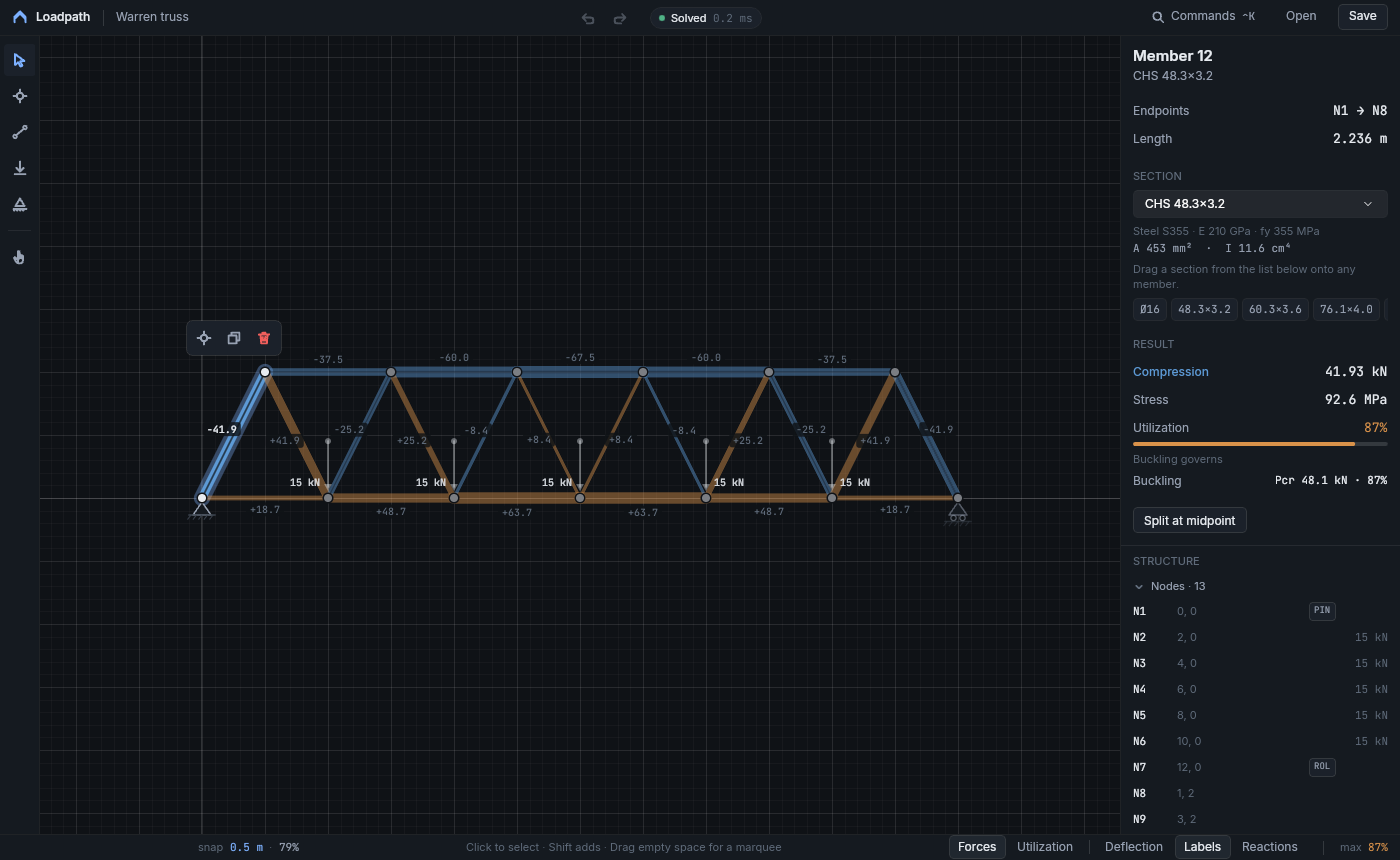
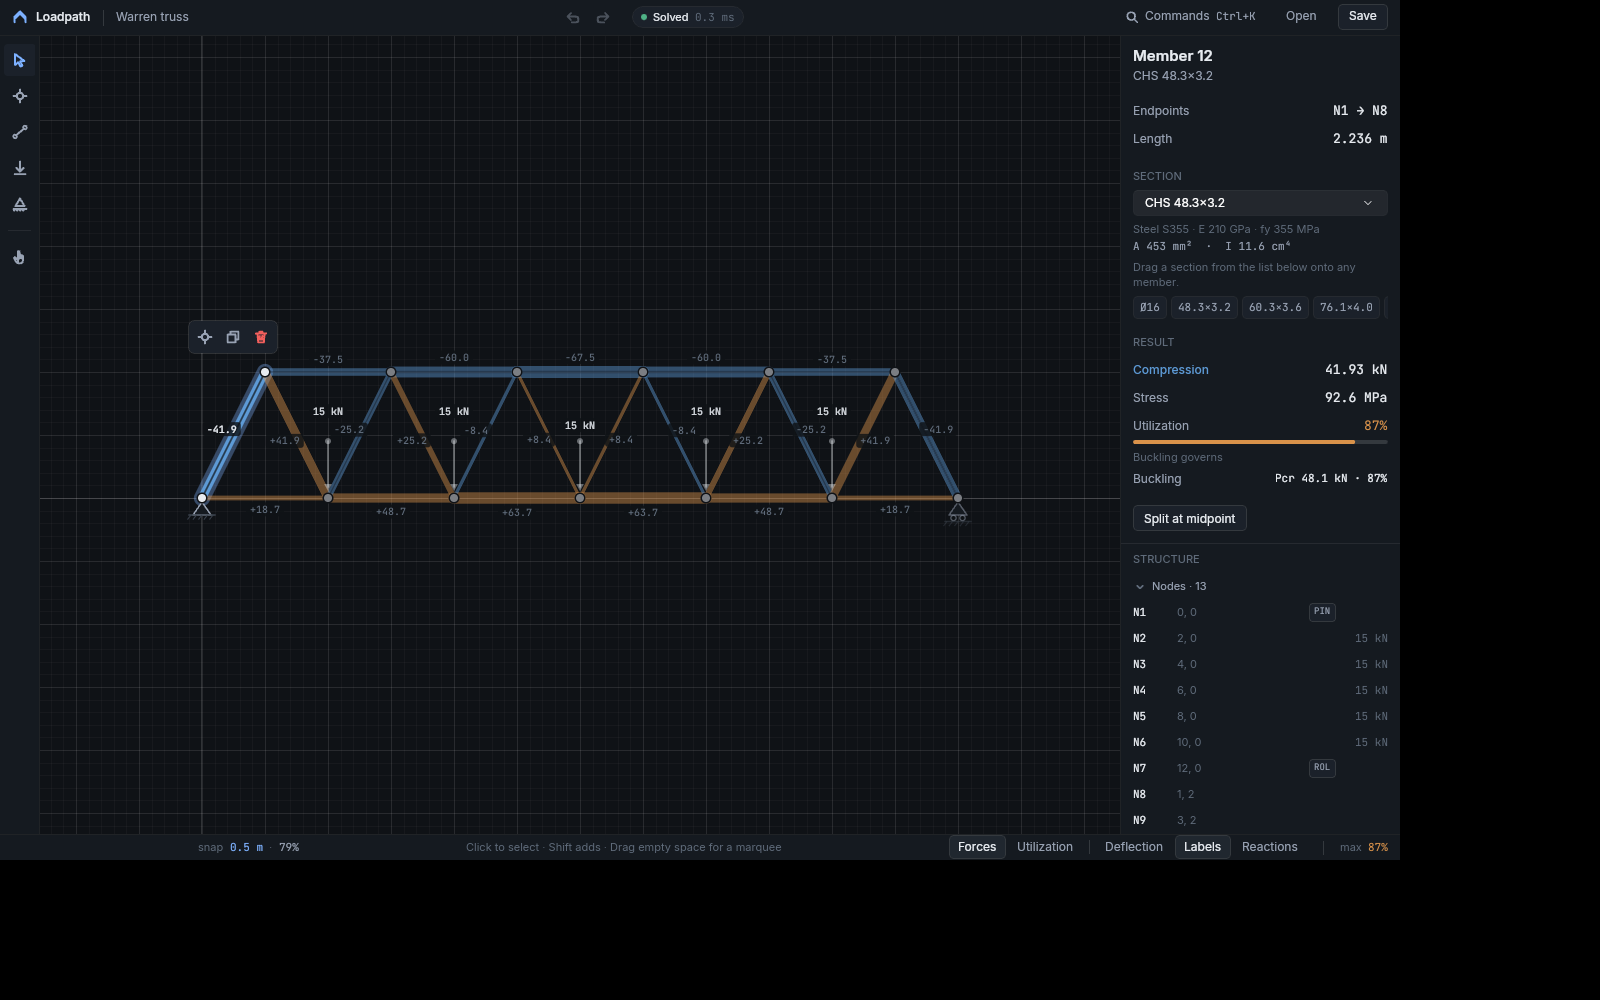
fix(loadpath): UI craft pass on canvas labels, control heights and status bar
Load and reaction labels pick the first of four spots around the arrow tail
that misses the member labels already drawn this frame, with the same backing
pill as member labels; before, they crossed diagonals or diagonal force labels
depending on zoom. Control heights go from five values to three (icon buttons,
palette rows, section combo and outline headers all 26 px). The Commands
button shows Ctrl+K instead of the macOS glyph. The deflection slider has a
×n.n readout. Below 960 px the status bar hides the cursor readout so the
display toggles and max utilization are never clipped. README screenshots
regenerated.

Claude-Session: https://claude.ai/code/session_01R4LfDdvnfWaRkRhFJQmQpw

diff --git a/Loadpath/Views/StatusBar.xaml b/Loadpath/Views/StatusBar.xaml
@@ -6,7 +6,7 @@
   <Border Background="{StaticResource SurfaceBrush}" BorderBrush="{StaticResource HairlineBrush}" BorderThickness="0,1,0,0" Padding="12,0">
     <Grid ColumnSpacing="16">
       <Grid.ColumnDefinitions>
-        <ColumnDefinition Width="170" />
+        <ColumnDefinition x:Name="CursorColumn" Width="170" />
         <ColumnDefinition Width="Auto" />
         <ColumnDefinition Width="*" />
         <ColumnDefinition Width="Auto" />
@@ -14,9 +14,9 @@
         <ColumnDefinition Width="Auto" />
       </Grid.ColumnDefinitions>
 
-      <TextBlock Text="{Binding CursorText}" Style="{StaticResource MonoCaption}" VerticalAlignment="Center" />
+      <TextBlock x:Name="Cursor" Text="{Binding CursorText}" Style="{StaticResource MonoCaption}" VerticalAlignment="Center" />
 
-      <StackPanel Grid.Column="1" Orientation="Horizontal" Spacing="6" VerticalAlignment="Center">
+      <StackPanel x:Name="SnapZoom" Grid.Column="1" Orientation="Horizontal" Spacing="6" VerticalAlignment="Center">
         <TextBlock Text="snap" Style="{StaticResource CaptionText}" VerticalAlignment="Center" />
         <TextBlock Text="{Binding SnapText}" Style="{StaticResource MonoCaption}" Foreground="{StaticResource AccentBrush}" VerticalAlignment="Center"
                    Opacity="{Binding SnapEnabled, Converter={StaticResource Dim}, ConverterParameter=invert}" />
@@ -33,6 +33,8 @@
         <ToggleButton Style="{StaticResource SegmentToggle}" Content="Deflection" IsChecked="{Binding ShowDeflection, Mode=TwoWay, Converter={StaticResource Checked}}" ToolTipService.ToolTip="Show deflected shape   3" />
         <Slider Style="{StaticResource CompactSlider}" Width="64" Minimum="0.2" Maximum="3" StepFrequency="0.1" Value="{Binding Exaggeration, Mode=TwoWay}"
                 Visibility="{Binding ShowDeflection, Converter={StaticResource Vis}}" ToolTipService.ToolTip="Deflection exaggeration" VerticalAlignment="Center" />
+        <TextBlock Text="{Binding ExaggerationText}" Style="{StaticResource MonoCaption}" MinWidth="30" Margin="2,0,4,0" VerticalAlignment="Center"
+                   Visibility="{Binding ShowDeflection, Converter={StaticResource Vis}}" />
         <ToggleButton Style="{StaticResource SegmentToggle}" Content="Labels" IsChecked="{Binding ShowLabels, Mode=TwoWay, Converter={StaticResource Checked}}" ToolTipService.ToolTip="Show force labels   4" />
         <ToggleButton Style="{StaticResource SegmentToggle}" Content="Reactions" IsChecked="{Binding ShowReactions, Mode=TwoWay, Converter={StaticResource Checked}}" ToolTipService.ToolTip="Show support reactions   5" />
       </StackPanel>

diff --git a/Loadpath/Views/OutlinePanel.xaml b/Loadpath/Views/OutlinePanel.xaml
@@ -35,7 +35,7 @@
     <ScrollViewer Grid.Row="1" VerticalScrollBarVisibility="Auto" HorizontalScrollMode="Disabled">
       <StackPanel Padding="0,0,0,12">
         <TextBlock Text="No elements yet" Style="{StaticResource CaptionText}" Margin="12,4" Visibility="{Binding OutlineIsEmpty, Converter={StaticResource Vis}}" />
-        <Button Style="{StaticResource QuietButton}" Command="{Binding ToggleNodes}" HorizontalAlignment="Stretch" HorizontalContentAlignment="Left" Padding="12,0" Height="24"
+        <Button Style="{StaticResource QuietButton}" Command="{Binding ToggleNodes}" HorizontalAlignment="Stretch" HorizontalContentAlignment="Left" Padding="12,0" Height="26"
                 Visibility="{Binding OutlineIsEmpty, Converter={StaticResource Vis}, ConverterParameter=invert}">
           <StackPanel Orientation="Horizontal" Spacing="6">
             <c:Icon Kind="chevron-down" Width="12" Height="12" Foreground="{StaticResource InkTertiaryBrush}" Visibility="{Binding NodesExpanded, Converter={StaticResource Vis}}" />
@@ -44,7 +44,7 @@
           </StackPanel>
         </Button>
         <ItemsControl ItemsSource="{Binding OutlineNodes}" ItemTemplate="{StaticResource OutlineRow}" Visibility="{Binding NodesExpanded, Converter={StaticResource Vis}}" />
-        <Button Style="{StaticResource QuietButton}" Command="{Binding ToggleMembers}" HorizontalAlignment="Stretch" HorizontalContentAlignment="Left" Padding="12,0" Height="24"
+        <Button Style="{StaticResource QuietButton}" Command="{Binding ToggleMembers}" HorizontalAlignment="Stretch" HorizontalContentAlignment="Left" Padding="12,0" Height="26"
                 Visibility="{Binding OutlineIsEmpty, Converter={StaticResource Vis}, ConverterParameter=invert}">
           <StackPanel Orientation="Horizontal" Spacing="6">
             <c:Icon Kind="chevron-down" Width="12" Height="12" Foreground="{StaticResource InkTertiaryBrush}" Visibility="{Binding MembersExpanded, Converter={StaticResource Vis}}" />

diff --git a/Loadpath/Views/CommandPalette.xaml b/Loadpath/Views/CommandPalette.xaml
@@ -25,7 +25,7 @@
           <ItemsControl ItemsSource="{Binding PaletteItems}" Padding="4">
             <ItemsControl.ItemTemplate>
               <DataTemplate>
-                <Border Height="28" Padding="8,0" CornerRadius="4" Background="{Binding RowBrushKey, Converter={StaticResource Brush}}" Tag="{Binding Id}" PointerPressed="OnItemPressed" PointerEntered="OnItemEntered">
+                <Border Height="26" Padding="8,0" CornerRadius="4" Background="{Binding RowBrushKey, Converter={StaticResource Brush}}" Tag="{Binding Id}" PointerPressed="OnItemPressed" PointerEntered="OnItemEntered">
                   <Grid ColumnSpacing="10">
                     <Grid.ColumnDefinitions>
                       <ColumnDefinition Width="16" />

diff --git a/Loadpath/Views/InspectorPanel.xaml b/Loadpath/Views/InspectorPanel.xaml
@@ -126,7 +126,7 @@
 
       <TextBlock Text="SECTION" Style="{StaticResource SectionLabel}" Margin="0,16,0,6" />
       <ComboBox ItemsSource="{Binding Sections}" SelectedIndex="{Binding SectionIndex, Mode=TwoWay}"
-                HorizontalAlignment="Stretch" MinHeight="26" Height="28" FontFamily="{StaticResource UiFont}" FontSize="12" AutomationProperties.Name="Section">
+                HorizontalAlignment="Stretch" MinHeight="26" Height="26" FontFamily="{StaticResource UiFont}" FontSize="12" AutomationProperties.Name="Section">
         <ComboBox.ItemTemplate>
           <DataTemplate>
             <TextBlock Text="{Binding Name}" FontFamily="{StaticResource UiFont}" FontSize="12" />

diff --git a/Loadpath/Views/TitleStrip.xaml b/Loadpath/Views/TitleStrip.xaml
@@ -48,7 +48,7 @@
         <StackPanel Orientation="Horizontal" Spacing="6">
           <c:Icon Kind="search" Width="14" Height="14" />
           <TextBlock Text="Commands" Style="{StaticResource SecondaryText}" VerticalAlignment="Center" />
-          <TextBlock Text="⌃K" Style="{StaticResource MonoCaption}" VerticalAlignment="Center" />
+          <TextBlock Text="Ctrl+K" Style="{StaticResource MonoCaption}" VerticalAlignment="Center" />
         </StackPanel>
       </Button>
       <Button Grid.Column="5" Style="{StaticResource QuietButton}" Command="{Binding OpenFile}" ToolTipService.ToolTip="Open   Ctrl+O" AutomationProperties.Name="Open">

diff --git a/Loadpath/Themes/Controls.xaml b/Loadpath/Themes/Controls.xaml
@@ -147,9 +147,9 @@
   </Style>
 
   <Style x:Key="IconButton" TargetType="Button" BasedOn="{StaticResource QuietButton}">
-    <Setter Property="Width" Value="28" />
-    <Setter Property="Height" Value="28" />
-    <Setter Property="MinHeight" Value="28" />
+    <Setter Property="Width" Value="26" />
+    <Setter Property="Height" Value="26" />
+    <Setter Property="MinHeight" Value="26" />
     <Setter Property="Padding" Value="0" />
     <Setter Property="Foreground" Value="{StaticResource InkSecondaryBrush}" />
   </Style>

diff --git a/Loadpath/Workspace/WorkspaceRenderer.cs b/Loadpath/Workspace/WorkspaceRenderer.cs
@@ -20,6 +20,8 @@ public sealed class WorkspaceRenderer : IDisposable
     private readonly SKPathEffect _dash = SKPathEffect.CreateDash([4, 4], 0);
     private readonly SKPathEffect _ghostDash = SKPathEffect.CreateDash([6, 5], 0);
     private readonly SKPath _path = new();
+    /// <summary>Label boxes drawn this frame; load and reaction labels steer around them.</summary>
+    private readonly List<SKRect> _labelRects = new(64);
 
     public WorkspaceRenderer()
     {
@@ -45,6 +47,7 @@ public sealed class WorkspaceRenderer : IDisposable
     public void Render(SKCanvas canvas, RenderSnapshot s)
     {
         canvas.Clear(SkiaPalette.Canvas);
+        _labelRects.Clear();
         if (s.ShowGrid) DrawGrid(canvas, s);
         if (s.ShowDeflection && s.Status == AnalysisStatus.Solved) DrawDeflectedGhost(canvas, s);
         DrawMembers(canvas, s);
@@ -170,6 +173,7 @@ public sealed class WorkspaceRenderer : IDisposable
             var width = _monoSmall.MeasureText(text);
             var cx = mid.X + nx * off; var cy = mid.Y + ny * off;
             var rect = new SKRect(cx - width / 2 - 4, cy - 7, cx + width / 2 + 4, cy + 7);
+            _labelRects.Add(rect);
             _fill.Color = SkiaPalette.Canvas.WithAlpha(0.82);
             canvas.DrawRoundRect(rect, 3, 3, _fill);
             _text.Color = m.Dimmed ? SkiaPalette.InkTertiary : (m.Selected ? SkiaPalette.Ink : SkiaPalette.InkSecondary);
@@ -301,16 +305,42 @@ public sealed class WorkspaceRenderer : IDisposable
         var len = MathF.Sqrt(d.X * d.X + d.Y * d.Y);
         if (len < 1) return;
         var ux = d.X / len; var uy = d.Y / len;
+        var px = -uy; var py = ux; // perpendicular, flipped to point away from the structure
+        if (px * (center.X - tail.X) + py * (center.Y - tail.Y) > 0) { px = -px; py = -py; }
         var width = _monoSmall.MeasureText(text);
-        // Beside the shaft near the head, on the side away from the structure: clear of member labels at the midpoints.
-        var px = -uy; var py = ux;
-        if (px * (center.X - head.X) + py * (center.Y - head.Y) > 0) { px = -px; py = -py; }
-        var cx = head.X - ux * 16 + px * 8;
-        var cy = head.Y - uy * 16 + py * 8;
-        var lx = px > 0.3f ? cx : px < -0.3f ? cx - width : cx - width / 2;
-        var ly = cy + 3.5f;
+        // Candidates in order of preference: beyond the tail on the shaft axis (the widest part of the panel, or
+        // outside the structure), further out, then beside the tail on the outer side, then the inner side.
+        // The arrow has a fixed pixel length, so which spot is clear depends on zoom; take the first that
+        // misses every label drawn so far this frame.
+        Span<SKPoint> anchors = stackalloc SKPoint[4];
+        anchors[0] = new SKPoint(tail.X - ux * 9, tail.Y - uy * 9);
+        anchors[1] = new SKPoint(tail.X - ux * 23, tail.Y - uy * 23);
+        anchors[2] = new SKPoint(tail.X + px * 8, tail.Y + py * 8);
+        anchors[3] = new SKPoint(tail.X - px * 8, tail.Y - py * 8);
+        var chosen = Box(anchors[0], ux, uy, width);
+        for (var i = 0; i < anchors.Length; i++)
+        {
+            var dirX = i < 2 ? -ux : (i == 2 ? px : -px);
+            var dirY = i < 2 ? -uy : (i == 2 ? py : -py);
+            var box = Box(anchors[i], dirX, dirY, width);
+            var clear = true;
+            foreach (var r in _labelRects) if (r.IntersectsWith(box)) { clear = false; break; }
+            if (clear) { chosen = box; break; }
+        }
+        _labelRects.Add(chosen);
+        _fill.Color = SkiaPalette.Canvas.WithAlpha(0.82);
+        canvas.DrawRoundRect(chosen, 3, 3, _fill);
         _text.Color = color.WithAlpha(0.9);
-        canvas.DrawText(text, lx, ly, _monoSmall, _text);
+        canvas.DrawText(text, chosen.Left + 4, chosen.MidY + 3.5f, _monoSmall, _text);
+
+        // Text box grown from an anchor in direction (dx, dy): centered across the direction, flush along it.
+        static SKRect Box(SKPoint a, float dx, float dy, float width)
+        {
+            var w = width + 8; const float h = 14;
+            var left = dx > 0.3f ? a.X : dx < -0.3f ? a.X - w : a.X - w / 2;
+            var top = dy > 0.3f ? a.Y : dy < -0.3f ? a.Y - h : a.Y - h / 2;
+            return new SKRect(left, top, left + w, top + h);
+        }
     }
 
     // ---- nodes ----

diff --git a/Loadpath/Presentation/EditorModel.cs b/Loadpath/Presentation/EditorModel.cs
@@ -67,6 +67,7 @@ public partial record EditorModel
     public IState<bool> IsUtilization => State.Value(this, () => _engine.Options.DisplayMode == DisplayMode.Utilization);
     public IState<bool> ShowDeflection => State.Value(this, () => _engine.Options.ShowDeflection).ForEach(async (v, ct) => Push(o => o.ShowDeflection = v));
     public IState<double> Exaggeration => State.Value(this, () => _engine.Options.Exaggeration).ForEach(async (v, ct) => Push(o => o.Exaggeration = v));
+    public IFeed<string> ExaggerationText => Exaggeration.Select(v => $"×{v:0.0}");
     public IState<bool> ShowLabels => State.Value(this, () => _engine.Options.ShowLabels).ForEach(async (v, ct) => Push(o => o.ShowLabels = v));
     public IState<bool> ShowReactions => State.Value(this, () => _engine.Options.ShowReactions).ForEach(async (v, ct) => Push(o => o.ShowReactions = v));
     public IState<bool> SnapEnabled => State.Value(this, () => _engine.Options.SnapEnabled);

diff --git a/Loadpath/Views/StatusBar.xaml.cs b/Loadpath/Views/StatusBar.xaml.cs
@@ -1,8 +1,21 @@
+using Microsoft.UI.Xaml;
 using Microsoft.UI.Xaml.Controls;
 
 namespace Loadpath.Views;
 
 public sealed partial class StatusBar : UserControl
 {
-    public StatusBar() => InitializeComponent();
+    public StatusBar()
+    {
+        InitializeComponent();
+        SizeChanged += (_, e) => ApplyCompact(e.NewSize.Width);
+    }
+
+    /// <summary>Below 960 px the cursor readout gives way so the display toggles and the max utilization stay whole.</summary>
+    private void ApplyCompact(double width)
+    {
+        var compact = width < 960;
+        Cursor.Visibility = compact ? Visibility.Collapsed : Visibility.Visible;
+        CursorColumn.Width = compact ? new GridLength(0) : new GridLength(170);
+    }
 }

diff --git a/README.md b/README.md
@@ -77,6 +77,7 @@ Loadpath.Tests/     xunit: solver against method-of-joints values, mechanism det
 - 21 unit tests: a triangle truss matches method-of-joints forces and reactions to three decimals; a square without a diagonal is a mechanism; detached parts are left out; drags coalesce; delete/split/duplicate revert exactly; samples serialize round-trip and all solve below full utilization.
 - Runtime: the app was driven under Xvfb with `xdotool` (`tools/drive.sh`) through select, drag with live re-solve, undo, node and member chaining with guides, load vector drag, support cycling, marquee delete, load-handle drag, number-field editing, outline selection and collapse, bulk support and section actions, section drag-and-drop, the combo box, the palette (search, arrow keys, Enter), context menus, display modes, save to disk and autosave restore. The same pass was repeated after the MVUX conversion. Screenshots in `docs/` come from those runs.
 - Release build has zero warnings.
+- A UI craft pass (critique checklist, two widths, two heights, every display mode) brought control heights from five values to three (26 px chrome, 24 px status-bar segments, 32 px tool rail), moved arrow labels off the members, added the exaggeration readout, replaced the macOS `⌃K` glyph with `Ctrl+K`, and made the status bar drop the cursor readout below 960 px so the display toggles and max utilization stay whole.
 
 Fixture hooks (Debug only) make headless captures deterministic: `LOADPATH_SAMPLE=warren|cantilever|roof`, `LOADPATH_RESET=1` (ignore settings and autosave), `LOADPATH_SELECT=n4,m12`, `LOADPATH_MODE=utilization,deflection,reactions,nolabels`, `LOADPATH_TOOL=member`, `LOADPATH_PALETTE=1`, `LOADPATH_TOAST=text`, `LOADPATH_EDIT=unsupported|overload`, `LOADPATH_TRACE=path`.
 
@@ -86,6 +87,7 @@ Fixture hooks (Debug only) make headless captures deterministic: `LOADPATH_SAMPL
 - On Linux the file pickers go through the xdg-desktop-portal. Without a session bus the app saves to `~/Documents/Loadpath` and says so in a toast.
 - Mouse-wheel zoom uses `PointerWheelChanged`. Synthesized X11 button-4/5 clicks arrive as plain presses on this host, so wheel zoom was not exercised headlessly; `Ctrl+=`, `Ctrl+-`, `Ctrl+0`, `Ctrl+1` and `F` were.
 - `SKCanvasElement` ignores `UIElement.Opacity`; dimming is baked into the paints.
+- Load and reaction arrows have a fixed pixel length, so where their labels are clear depends on zoom. The renderer keeps the label boxes drawn each frame and gives an arrow label the first of four spots (beyond the tail, further beyond, beside the tail outward, beside it inward) that misses them.
 - MVUX generator notes: records carried by feeds are plain `partial record`s (no `required` members, no record structs), colors travel as resource keys resolved by a converter, and a `readonly record struct` with an `Id` property must not be `partial` or the key-equality generator emits a non-partial duplicate.
 - MVUX runs generated commands and `ForEach` callbacks on a thread-pool thread. Anything that mutates the document (and therefore raises events that reach XAML) is posted back to the UI dispatcher through `EditorModel.Ui(...)`; without it the first edit of a transaction lands and the rest throw "dependency property system should not be accessed from non UI thread".
 - When a focused element leaves the tree (a collapsing inspector panel, the closing palette) keyboard events lose their target; the page moves focus back to an invisible `KeySink` on selection changes and palette close.
